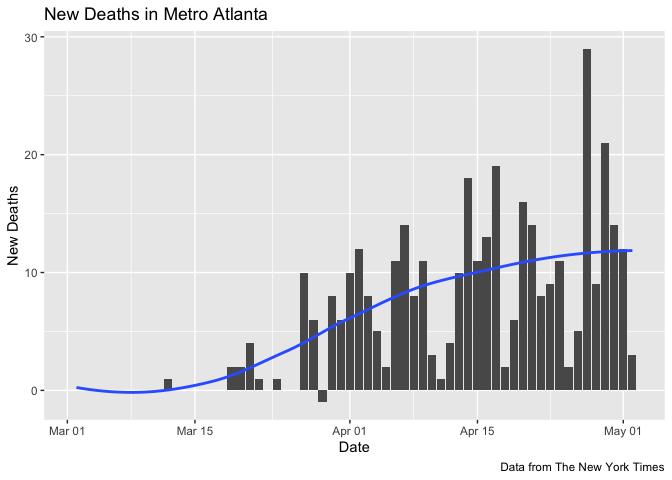
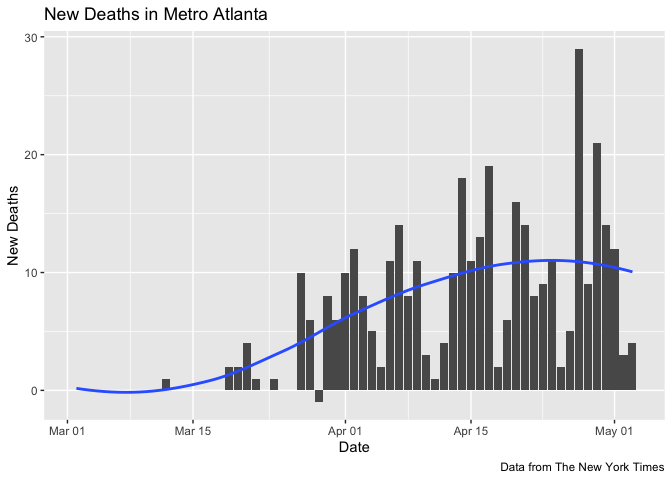
Ran with new data

diff --git a/Metro_Atlanta_COVID.md b/Metro_Atlanta_COVID.md
@@ -16,7 +16,7 @@ It’s hard to know how to interpret these numbers since there are major
 known unknowns. Neither confirmed cases nor deaths can be said to be
 reliable counts of the true numbers.
 
-Data current as of May 03,
+Data current as of May 04,
 2020.
 
 # Metro Atlanta
